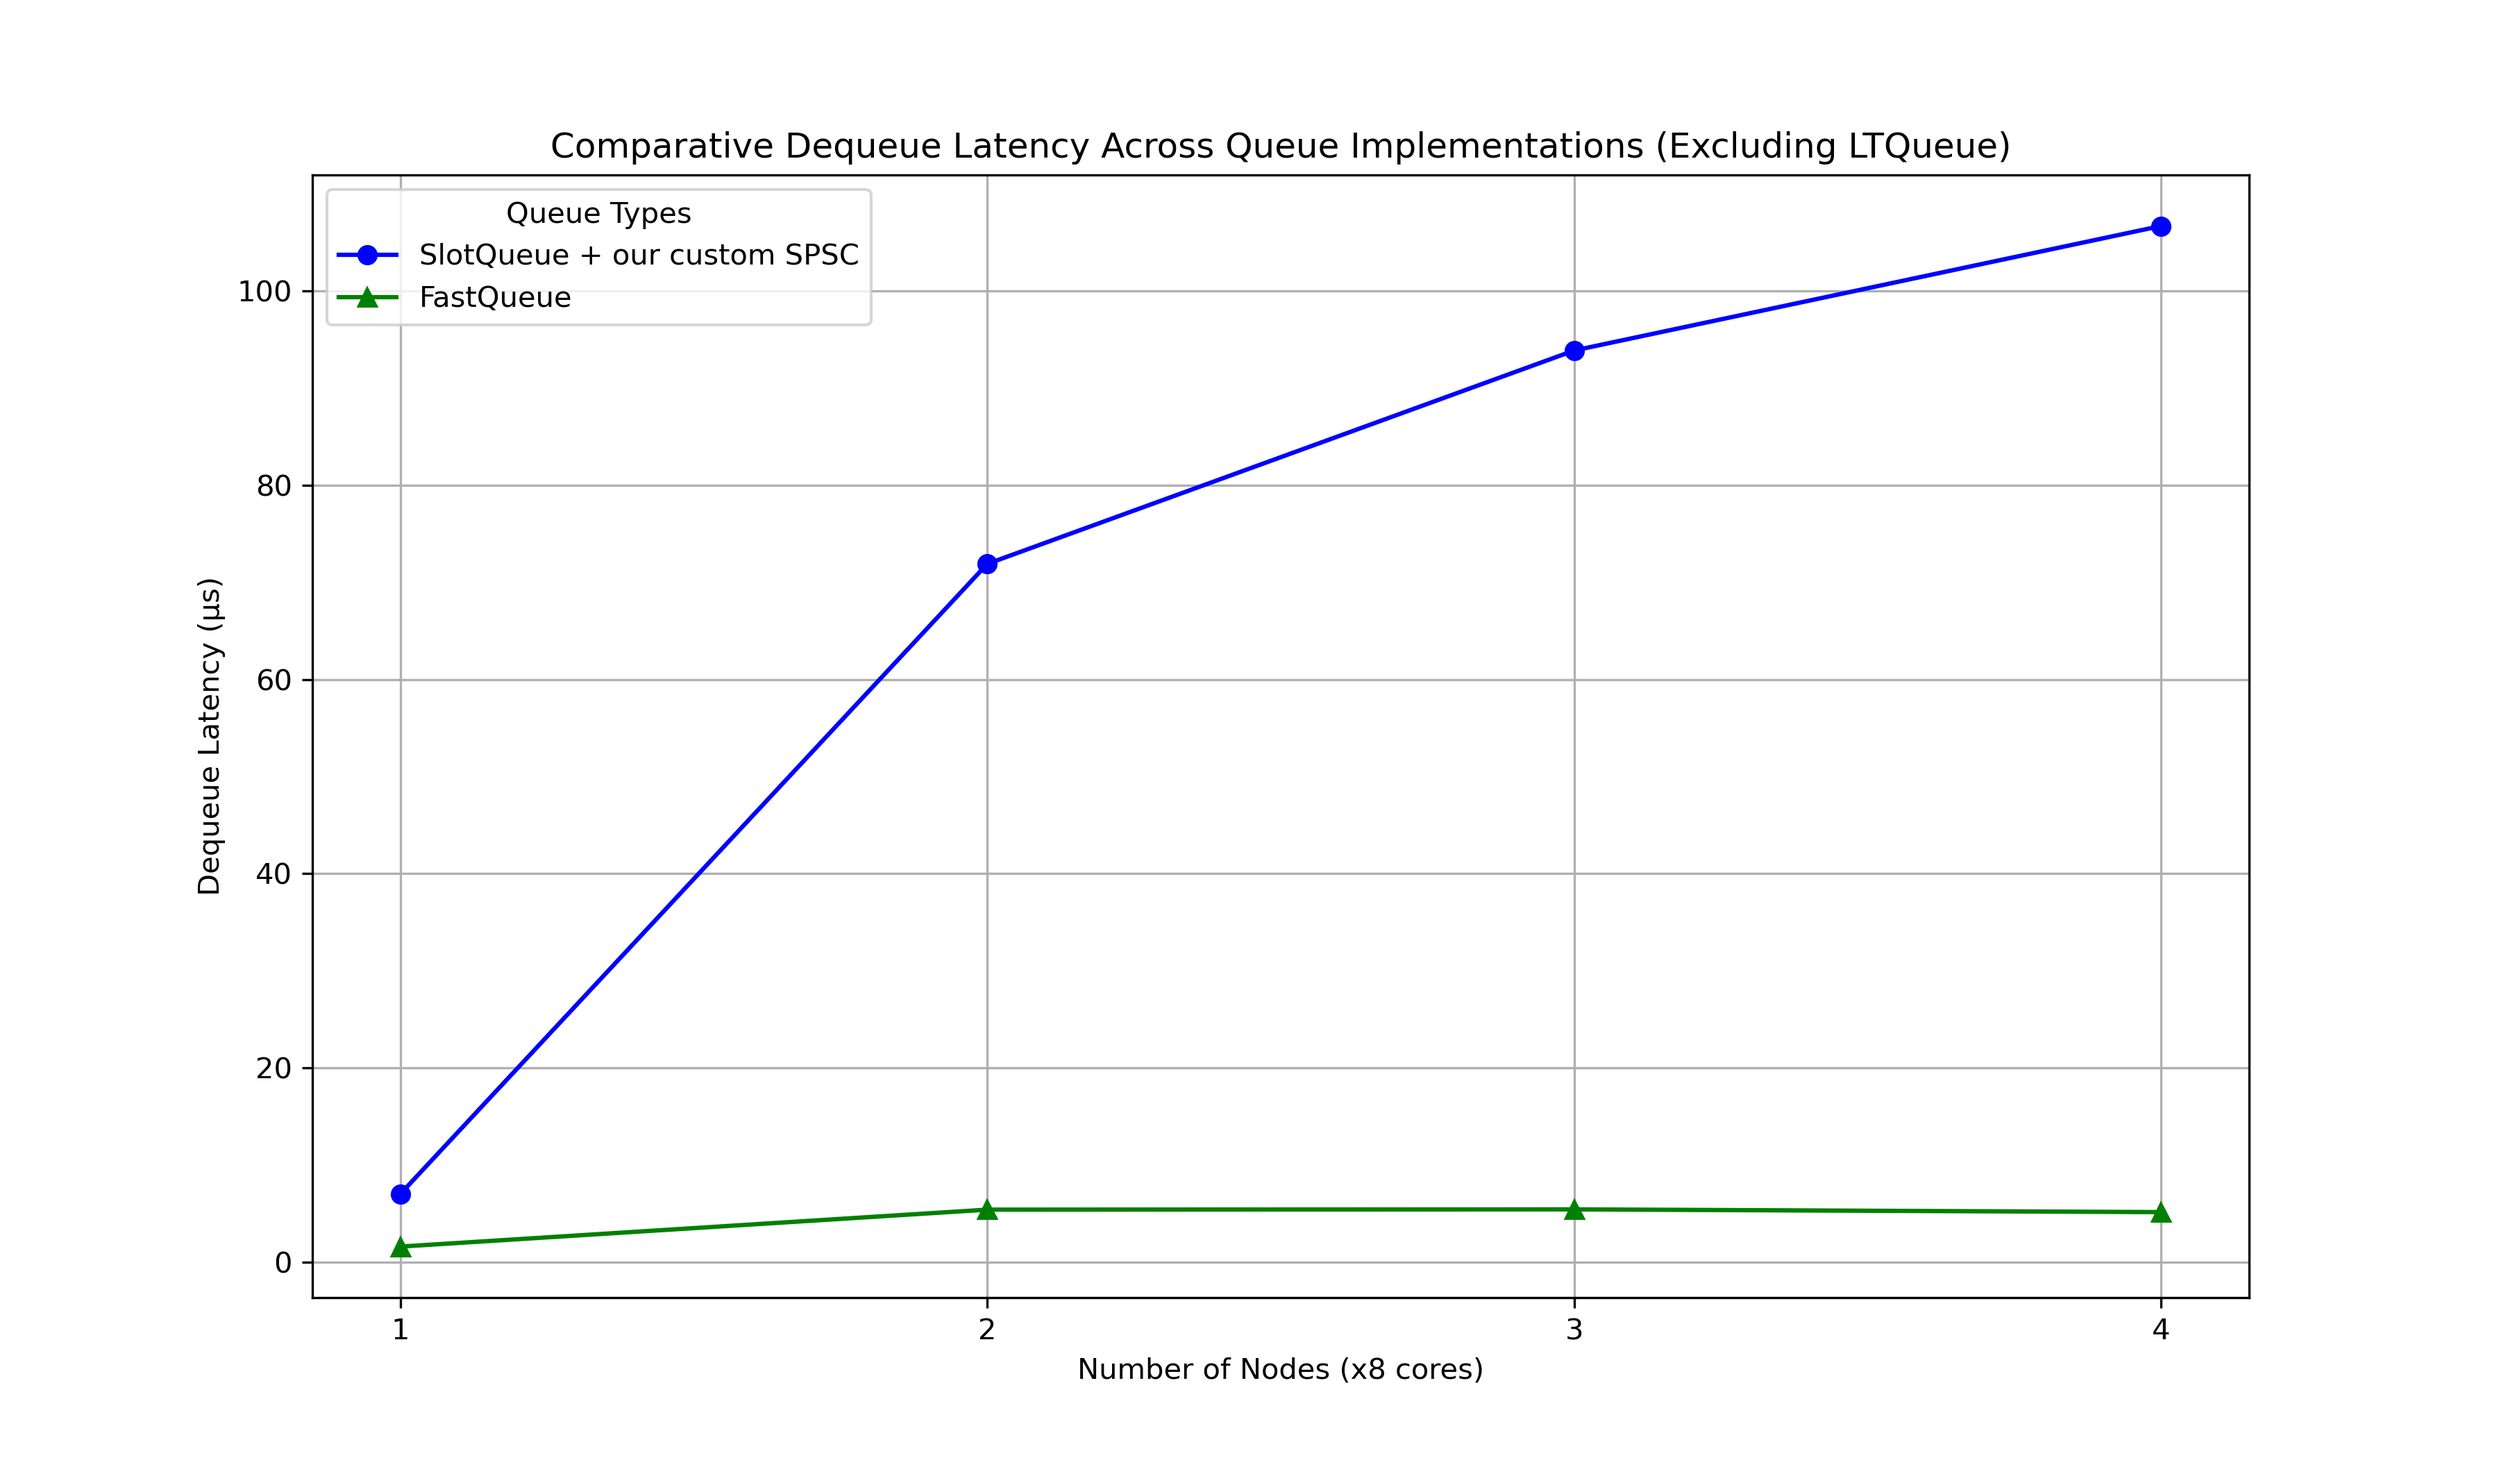
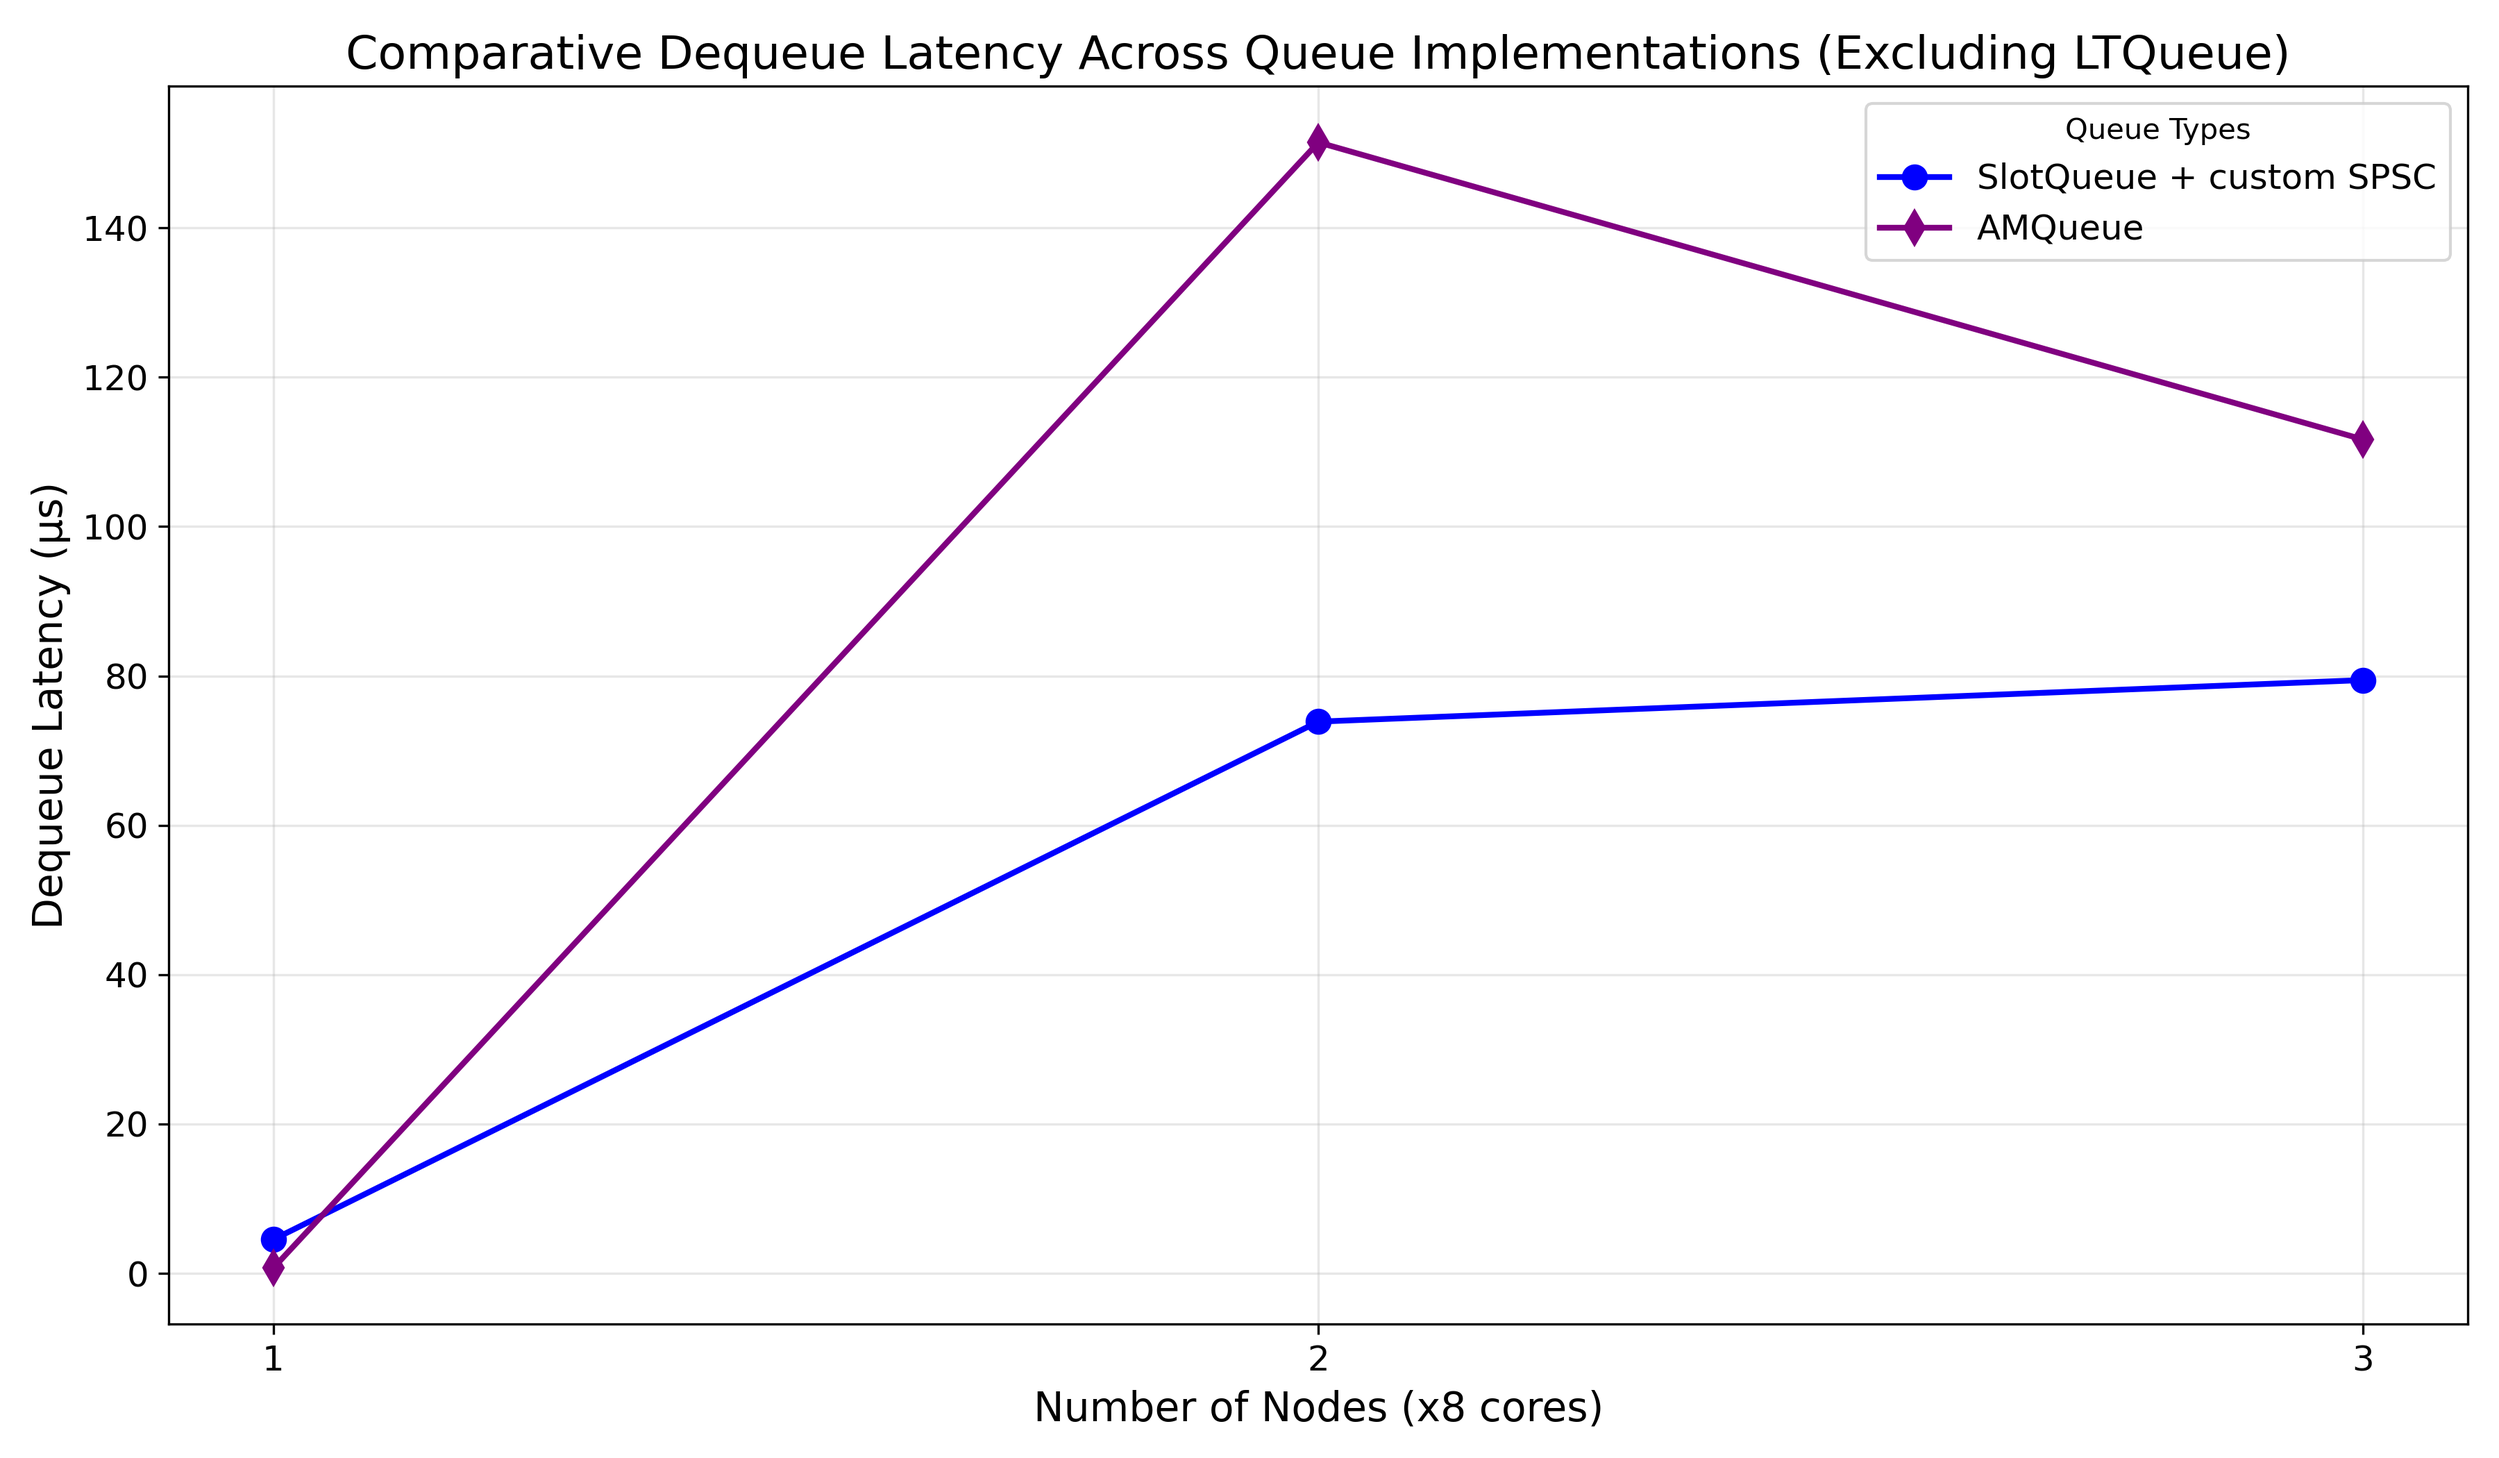
bench: remove fastqueue and add amqueue

diff --git a/benches/microbenchmarks/single-one-queue/non-rdma-cluster/by-nodes.py b/benches/microbenchmarks/single-one-queue/non-rdma-cluster/by-nodes.py
@@ -6,30 +6,30 @@ output_dir = "non-rdma-cluster/all/by-nodes"
 os.makedirs(output_dir, exist_ok=True)
 
 # Data for nodes and queue types
-nodes = [1, 2, 3, 4]
+nodes = [1, 2, 3]
 
 # Data for different queues and metrics
 queue_data = {
-    "SlotQueue + our custom SPSC": {
-        "dequeue_throughput": [1.42519, 0.139075, 0.106517, 0.0937151],
-        "dequeue_latency": [7.0166, 71.9036, 93.8814, 106.706],
-        "enqueue_throughput": [4.53904, 0.469878, 0.260319, 0.208068],
-        "enqueue_latency": [15.4218, 319.232, 883.531, 1489.9],
-        "total_throughput": [2.85181, 0.278846, 0.214313, 0.189586],
+    "SlotQueue + custom SPSC": {
+        "dequeue_throughput": [2.20109, 0.135365, 0.125881],
+        "dequeue_latency": [4.5432, 73.8744, 79.4398],
+        "enqueue_throughput": [5.27636, 0.366896, 0.272167],
+        "enqueue_latency": [13.2667, 408.836, 845.069],
+        "total_throughput": [4.40438, 0.271407, 0.253274],
     },
-    "LTQueue + our custom SPSC": {
-        "dequeue_throughput": [0.429609, 0.0073331, 0.00506922, 0.00420328],
-        "dequeue_latency": [23.277, 1363.68, 1972.69, 2379.1],
-        "enqueue_throughput": [1.01365, 0.0318447, 0.0237135, 0.0169779],
-        "enqueue_latency": [69.0573, 4710.36, 9699.1, 18259.1],
-        "total_throughput": [0.859647, 0.0147029, 0.0101993, 0.00850323],
+    "LTQueue + custom SPSC": {
+        "dequeue_throughput": [0.526565, 0.00716466, 0.00532755],
+        "dequeue_latency": [18.991, 1395.74, 1877.03],
+        "enqueue_throughput": [1.09137, 0.0302231, 0.0261331],
+        "enqueue_latency": [64.1395, 4963.1, 8801.12],
+        "total_throughput": [1.05366, 0.0143651, 0.010719],
     },
-    "FastQueue": {
-        "dequeue_throughput": [6.29168, 1.8535, 1.84393, 1.94522],
-        "dequeue_latency": [1.5894, 5.3952, 5.4232, 5.1408],
-        "enqueue_throughput": [4.89333, 0.496313, 0.346763, 0.314497],
-        "enqueue_latency": [14.3052, 302.229, 663.278, 985.7],
-        "total_throughput": [9.23361, 0.509056, 0.47709, 0.478288],
+    "AMQueue": {
+        "dequeue_throughput": [13.5767, 0.0660331, 0.0895714],
+        "dequeue_latency": [0.736558, 151.439, 111.643],
+        "enqueue_throughput": [13.3691, 0.123752, 0.123568],
+        "enqueue_latency": [5.23596, 1212.1, 1861.32],
+        "total_throughput": [24.4934, 0.124142, 0.163123],
     },
 }
 
@@ -53,13 +53,9 @@ metric_labels = {
 
 # Color and marker styles for each queue
 queue_styles = {
-    "SlotQueue + our custom SPSC": {"color": "blue", "marker": "o"},
-    "LTQueue + our custom SPSC": {"color": "red", "marker": "s"},
-    "FastQueue": {"color": "green", "marker": "^"},
-    "SlotqueueV2a": {"color": "purple", "marker": "d", "linestyle": "--"},
-    "SlotqueueV2b": {"color": "orange", "marker": "x"},
-    "SlotqueueV2bc": {"color": "brown", "marker": "p"},
-    "SlotqueueV2c": {"color": "cyan", "marker": "*"},
+    "SlotQueue + custom SPSC": {"color": "blue", "marker": "o"},
+    "LTQueue + custom SPSC": {"color": "red", "marker": "s"},
+    "AMQueue": {"color": "purple", "marker": "d"},
 }
 
 # Generate merged plots for each metric
@@ -75,22 +71,28 @@ for metric in metrics:
             queue_metrics[metric],
             color=style["color"],
             marker=style["marker"],
-            linestyle=style.get("linestyle", "-"),
+            linestyle="-",
             label=queue_name,
+            linewidth=2,
+            markersize=8,
         )
 
     # Set title and labels
     title, unit = metric_labels[metric]
-    plt.title(f"Comparative {title} Across Queue Implementations")
-    plt.xlabel("Number of Nodes (x8 cores)")
-    plt.ylabel(f"{title} ({unit})")
+    plt.title(f"Comparative {title} Across Queue Implementations", fontsize=16)
+    plt.xlabel("Number of Nodes (x8 cores)", fontsize=14)
+    plt.ylabel(f"{title} ({unit})", fontsize=14)
 
     # Add grid and legend
-    plt.grid(True)
-    plt.legend(title="Queue Types", loc="best")
+    plt.grid(True, alpha=0.3)
+    plt.legend(title="Queue Types", loc="best", fontsize=12)
 
     # Set x-axis to use only integer values
-    plt.xticks(nodes, [str(int(node)) for node in nodes])
+    plt.xticks(nodes, [str(int(node)) for node in nodes], fontsize=12)
+    plt.yticks(fontsize=12)
+
+    # Add a tight layout to make better use of space
+    plt.tight_layout()
 
     # Save the plot
     filename = f"{output_dir}/{metric}_comparison.png"
@@ -101,42 +103,48 @@ print(
     "All comparative plots have been generated in the 'non-rdma-cluster/all/by-nodes' folder."
 )
 
-# Ensure the output directory exists for the second set of plots
+# Generate separate plots for each metric excluding LTQueue (which has much worse performance)
 output_dir = "non-rdma-cluster/no-ltqueue/by-nodes"
 os.makedirs(output_dir, exist_ok=True)
 
-# Generate merged plots for each metric (excluding LTQueue)
 for metric in metrics:
     # Create a new figure for each metric
     plt.figure(figsize=(12, 7))
 
     # Plot data for each queue
     for queue_name, queue_metrics in queue_data.items():
-        if (
-            queue_name != "LTQueue + our custom SPSC"
-        ):  # Exclude LTQueue for this set of plots
+        if queue_name != "LTQueue + custom SPSC":  # Exclude LTQueue for this set of plots
             style = queue_styles[queue_name]
             plt.plot(
                 nodes,
                 queue_metrics[metric],
                 color=style["color"],
                 marker=style["marker"],
-                linestyle=style.get("linestyle", "-"),
+                linestyle="-",
                 label=queue_name,
+                linewidth=2,
+                markersize=8,
             )
 
     # Set title and labels
     title, unit = metric_labels[metric]
-    plt.title(f"Comparative {title} Across Queue Implementations (Excluding LTQueue)")
-    plt.xlabel("Number of Nodes (x8 cores)")
-    plt.ylabel(f"{title} ({unit})")
+    plt.title(
+        f"Comparative {title} Across Queue Implementations (Excluding LTQueue)",
+        fontsize=16,
+    )
+    plt.xlabel("Number of Nodes (x8 cores)", fontsize=14)
+    plt.ylabel(f"{title} ({unit})", fontsize=14)
 
     # Add grid and legend
-    plt.grid(True)
-    plt.legend(title="Queue Types", loc="best")
+    plt.grid(True, alpha=0.3)
+    plt.legend(title="Queue Types", loc="best", fontsize=12)
 
     # Set x-axis to use only integer values
-    plt.xticks(nodes, [str(int(node)) for node in nodes])
+    plt.xticks(nodes, [str(int(node)) for node in nodes], fontsize=12)
+    plt.yticks(fontsize=12)
+
+    # Add a tight layout to make better use of space
+    plt.tight_layout()
 
     # Save the plot
     filename = f"{output_dir}/{metric}_comparison.png"
